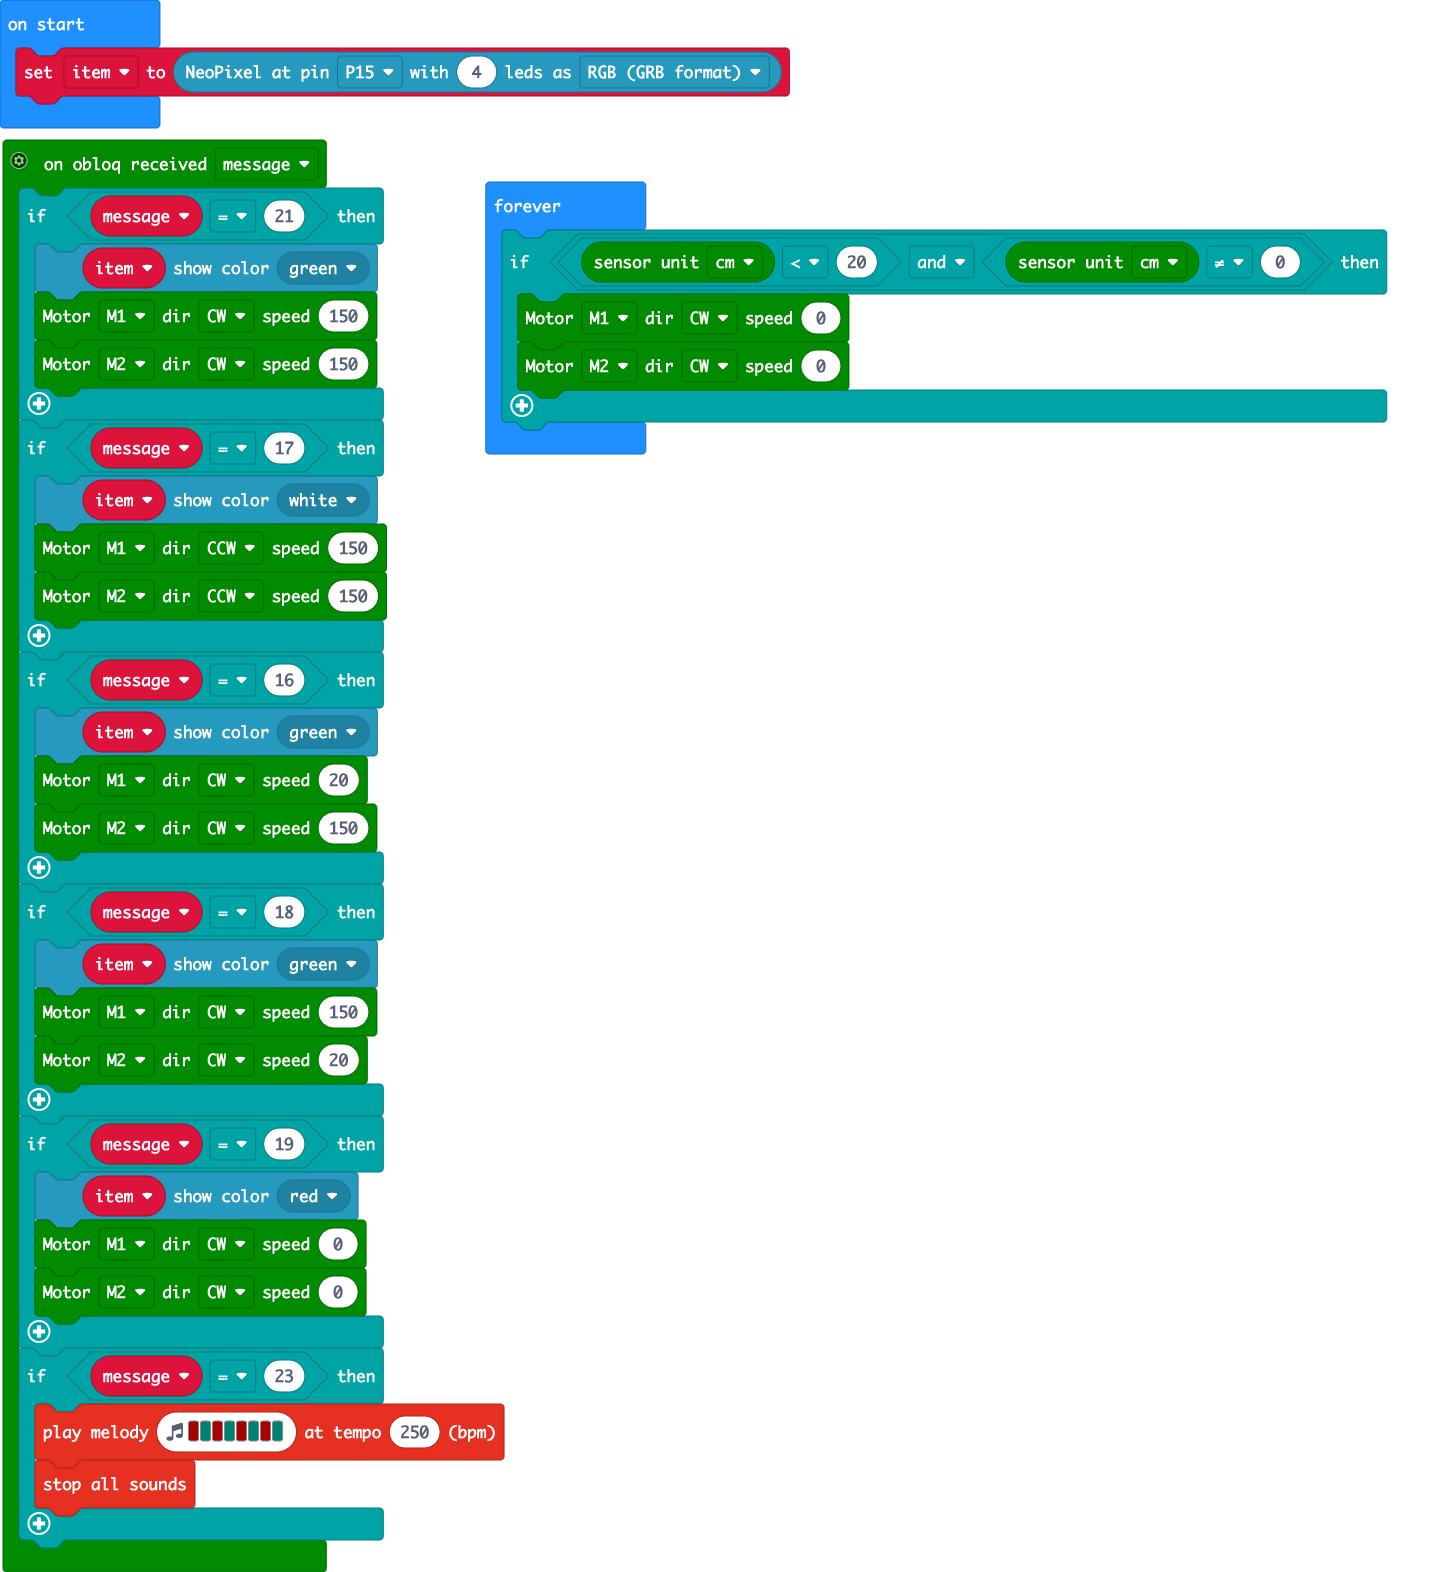
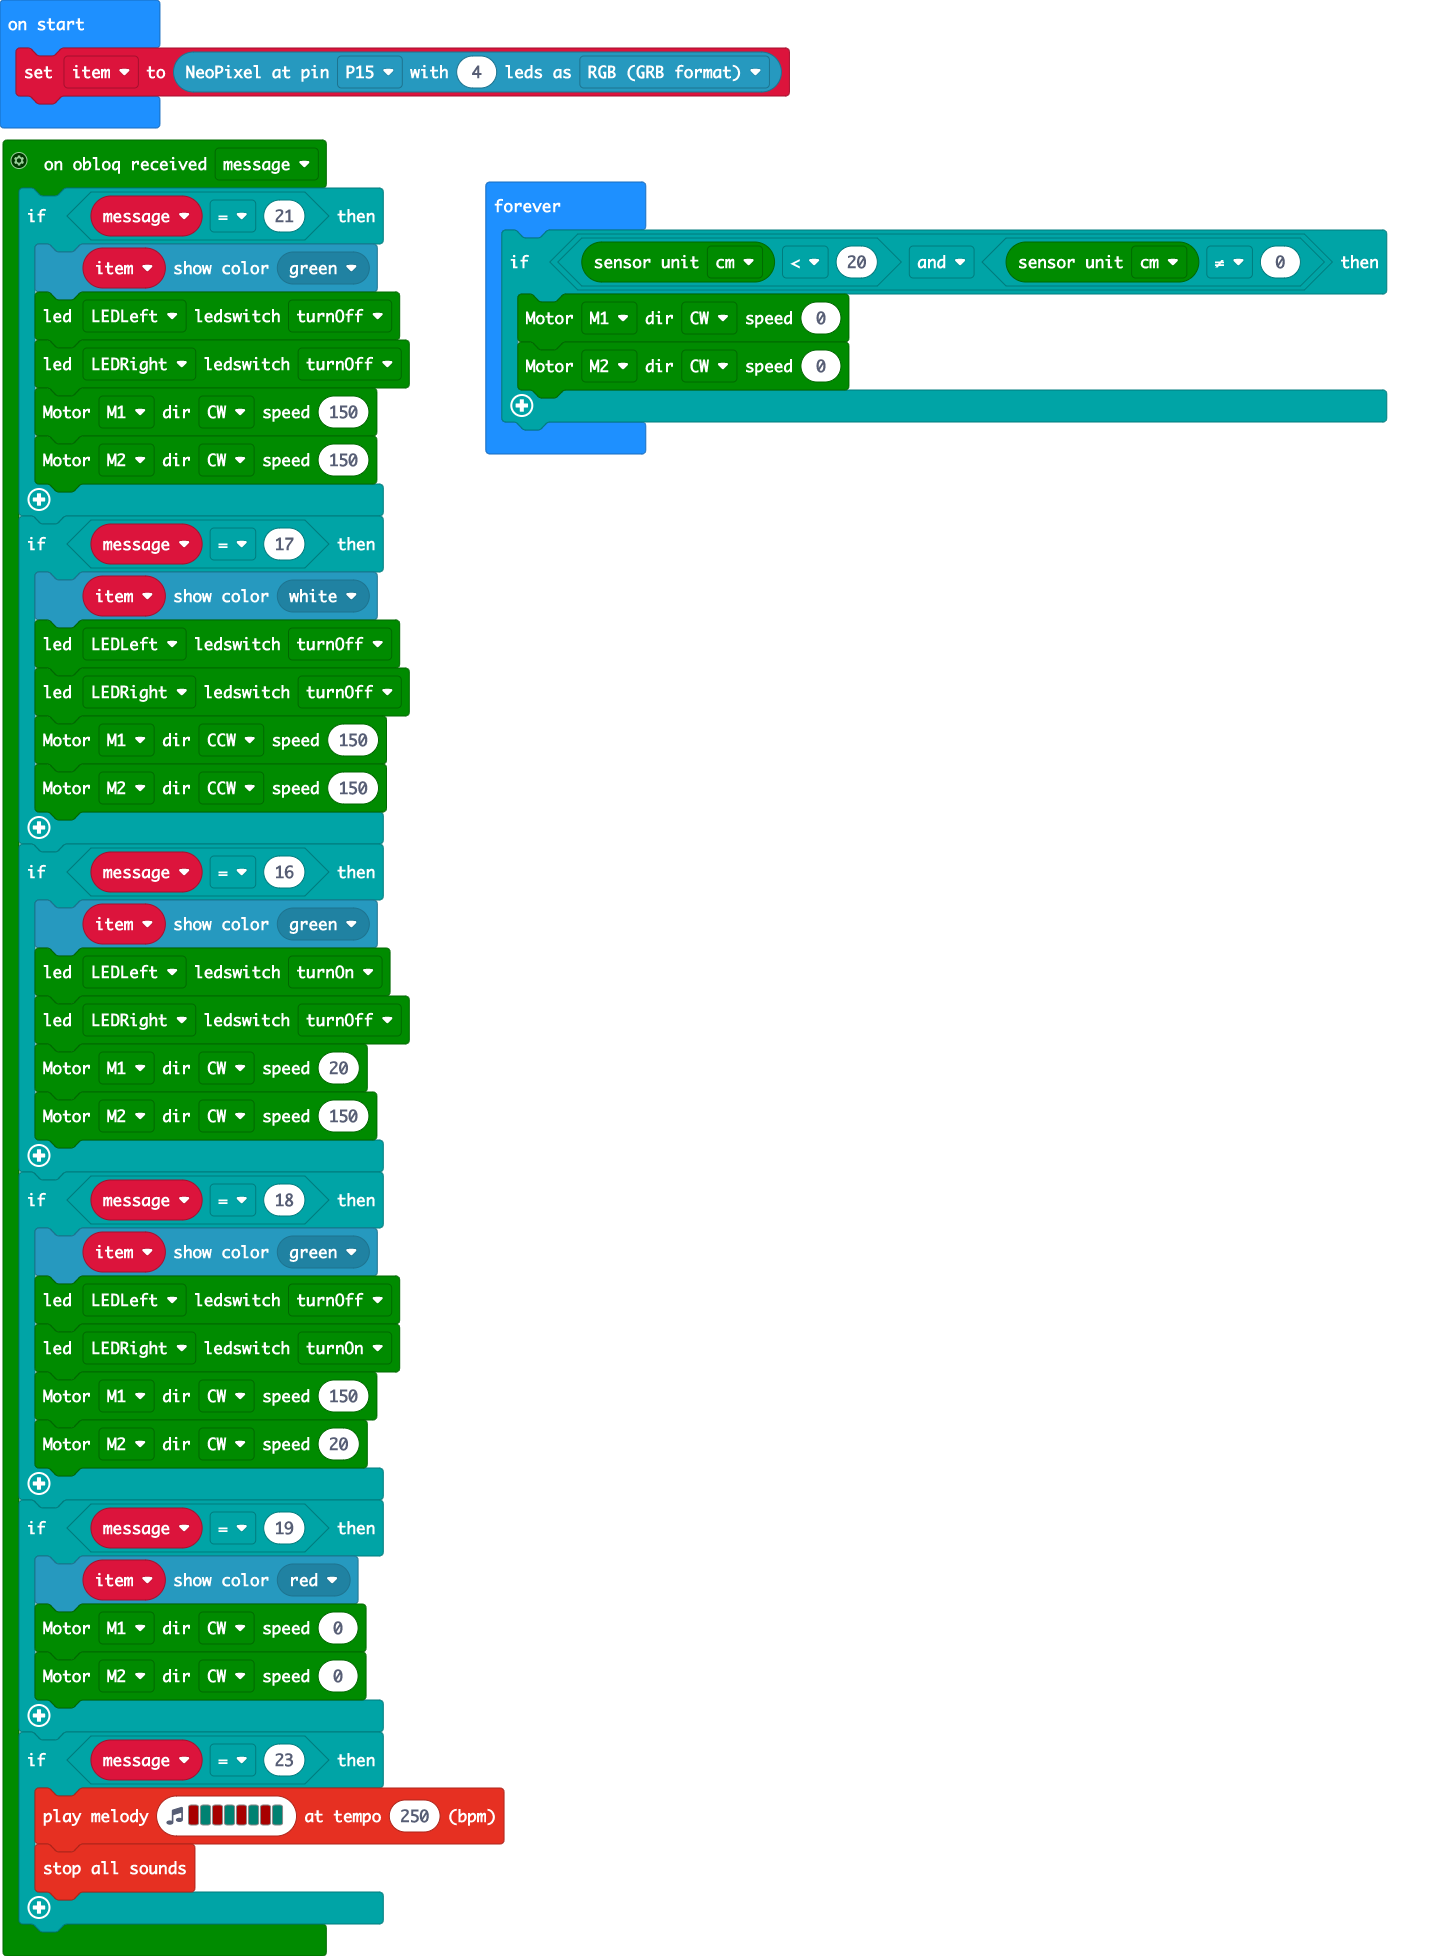
Update main.blocks, main.ts

Changed region(s): [[0.0, 0.0, 0.5504, 0.9975], [0.3363, 0.0935, 0.9785, 0.3117]]

diff --git a/main.ts b/main.ts
@@ -1,21 +1,29 @@
 maqueen.IR_callbackUser(function ({ myparam: message }) {
     if (message == 21) {
         item.showColor(neopixel.colors(NeoPixelColors.Green))
+        maqueen.writeLED(maqueen.LED.LEDLeft, maqueen.LEDswitch.turnOff)
+        maqueen.writeLED(maqueen.LED.LEDRight, maqueen.LEDswitch.turnOff)
         maqueen.MotorRun(maqueen.aMotors.M1, maqueen.Dir.CW, 150)
         maqueen.MotorRun(maqueen.aMotors.M2, maqueen.Dir.CW, 150)
     }
     if (message == 17) {
         item.showColor(neopixel.colors(NeoPixelColors.White))
+        maqueen.writeLED(maqueen.LED.LEDLeft, maqueen.LEDswitch.turnOff)
+        maqueen.writeLED(maqueen.LED.LEDRight, maqueen.LEDswitch.turnOff)
         maqueen.MotorRun(maqueen.aMotors.M1, maqueen.Dir.CCW, 150)
         maqueen.MotorRun(maqueen.aMotors.M2, maqueen.Dir.CCW, 150)
     }
     if (message == 16) {
         item.showColor(neopixel.colors(NeoPixelColors.Green))
+        maqueen.writeLED(maqueen.LED.LEDLeft, maqueen.LEDswitch.turnOn)
+        maqueen.writeLED(maqueen.LED.LEDRight, maqueen.LEDswitch.turnOff)
         maqueen.MotorRun(maqueen.aMotors.M1, maqueen.Dir.CW, 20)
         maqueen.MotorRun(maqueen.aMotors.M2, maqueen.Dir.CW, 150)
     }
     if (message == 18) {
         item.showColor(neopixel.colors(NeoPixelColors.Green))
+        maqueen.writeLED(maqueen.LED.LEDLeft, maqueen.LEDswitch.turnOff)
+        maqueen.writeLED(maqueen.LED.LEDRight, maqueen.LEDswitch.turnOn)
         maqueen.MotorRun(maqueen.aMotors.M1, maqueen.Dir.CW, 150)
         maqueen.MotorRun(maqueen.aMotors.M2, maqueen.Dir.CW, 20)
     }
